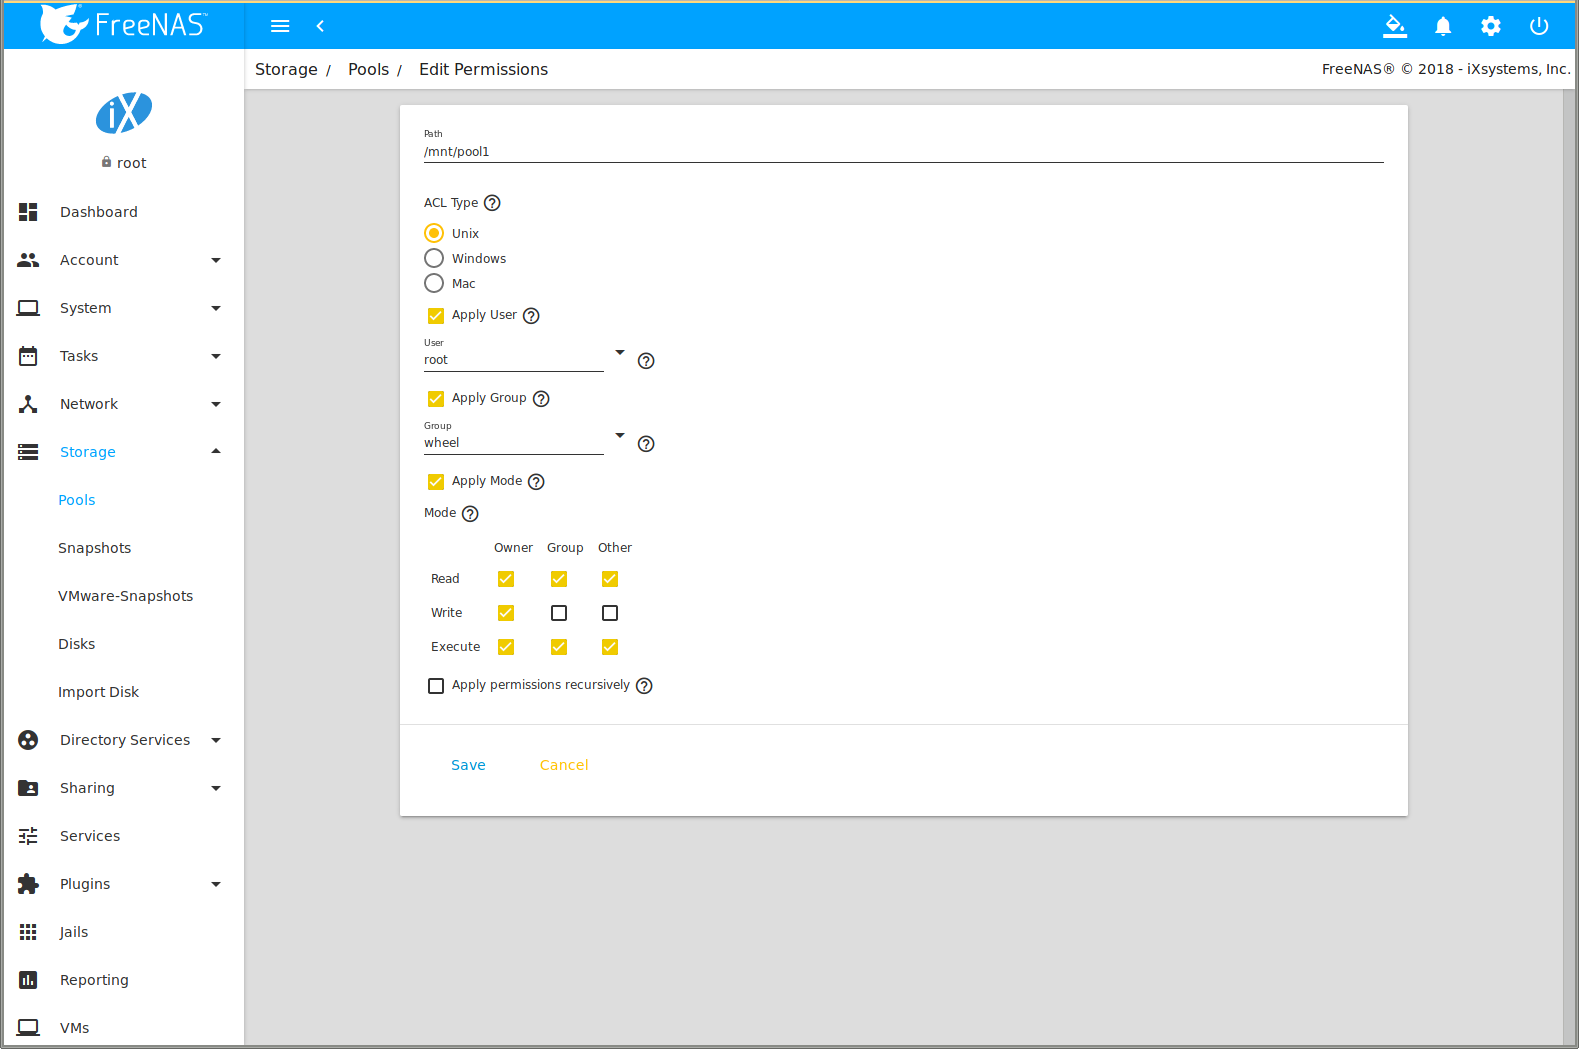
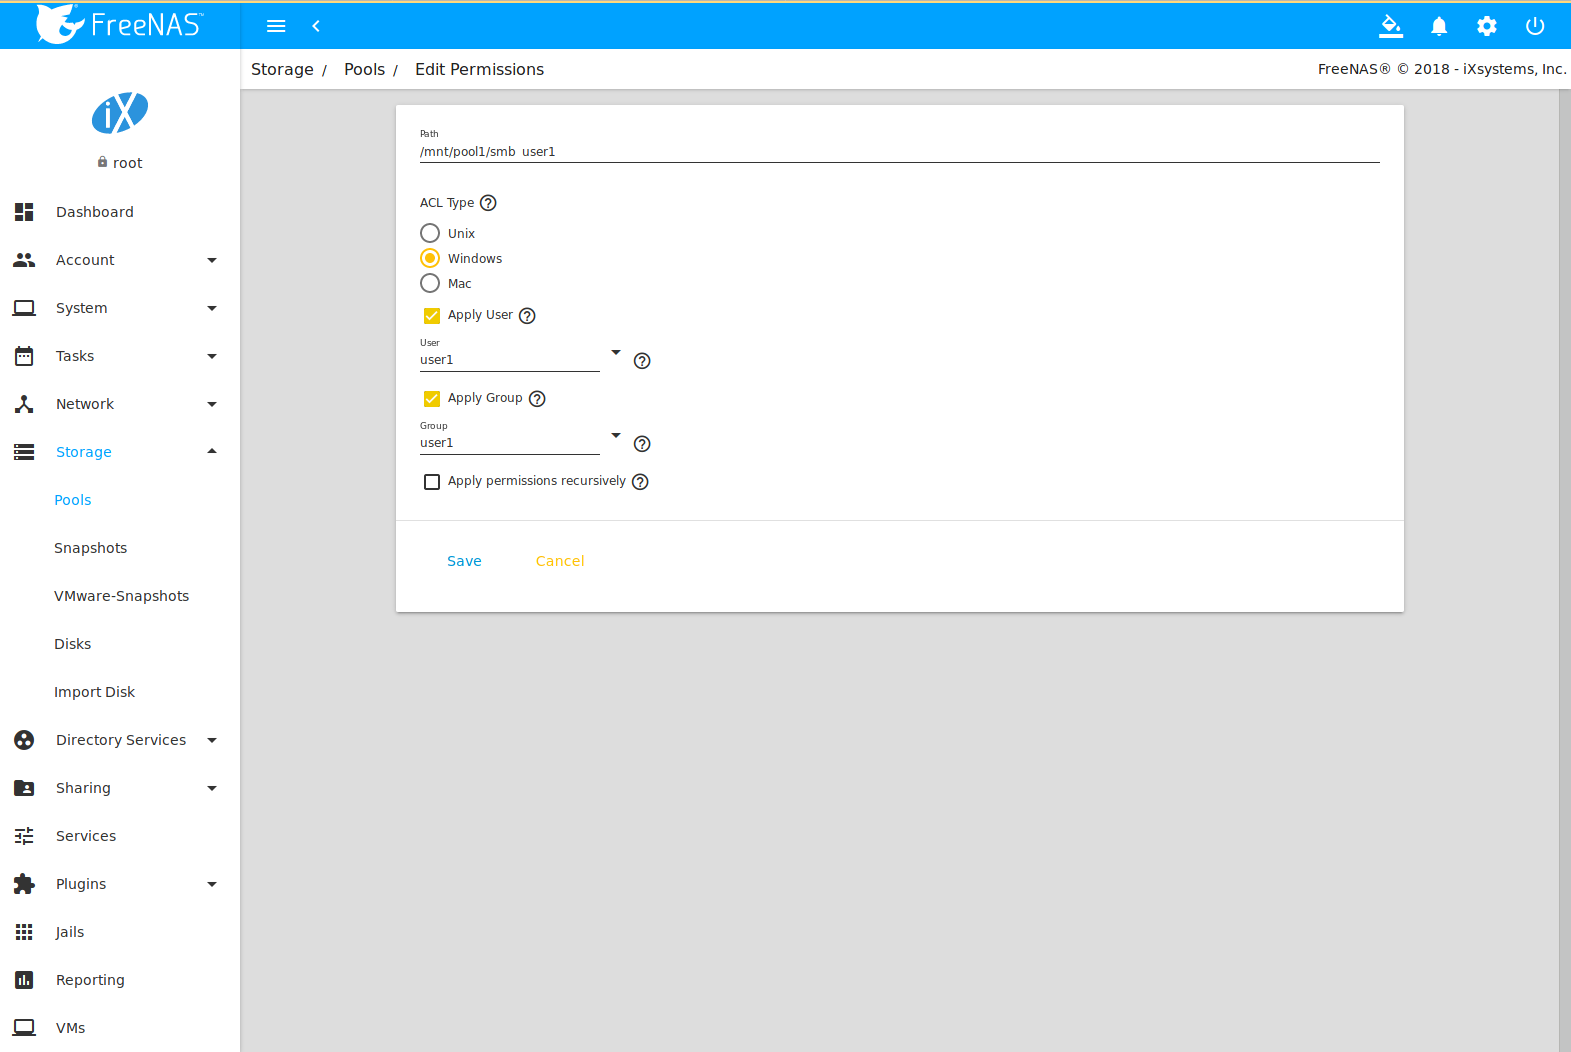
Update remaining images in Sharing

diff --git a/userguide/sharing.rst b/userguide/sharing.rst
@@ -298,8 +298,7 @@ share is displayed in the right frame.
 
 .. figure:: images/sharing-afp-connect-server.png
 
-
-   Connect to Server Dialogue
+   Connect to Server Dialog
 
 
 To disconnect from the pool, click the :guilabel:`eject` button in the
@@ -424,6 +423,7 @@ set for the *user1* account.
 
 .. TODO Take screenshot on macOS client
 
+
 If :guilabel:`Time Machine could not complete the backup. The
 backup disk image could not be created (error 45)` is shown when
 backing up to the %brand% system, a sparsebundle
@@ -493,7 +493,7 @@ the configuration screen is open for the *nfs_share1* share.
 
 .. _nfs_share_settings_fig:
 
-.. figure:: images/nfs2.png
+.. figure:: images/sharing-unix-nfs-edit-example.png
 
    NFS Share Settings
 
@@ -1332,9 +1332,10 @@ To configure an unauthenticated SMB share:
 
 .. _create_unauth_smb_share_fig:
 
-.. figure:: images/cifs7a.png
+.. figure:: images/sharing-windows-smb-guest-example.png
 
    Creating an Unauthenticated SMB Share
+
 
 The new share will appear in
 :menuselection:`Sharing --> Windows (SMB) Shares`.
@@ -1380,8 +1381,8 @@ For more information about dataset creation, refer to :ref:`Adding Datasets`.
 
 After creating the dataset, go to
 :menuselection:`Storage --> Pools` and click the
-|ui-options| button for the desired dataset. Click :guilabel:`Edit
-Permissions` and fill out the information as shown in
+|ui-options| button for the desired dataset. Click
+:guilabel:`Edit Permissions` and fill out the information as shown in
 :numref:`Figure %s <edit_permissions_smb_share_fig>`.
 
 #. **ACL Type:** Select :guilabel:`Windows`.
@@ -1397,11 +1398,13 @@ Permissions` and fill out the information as shown in
    creating a group.
 #. Click :guilabel:`Save`.
 
+
 .. _edit_permissions_smb_share_fig:
 
-.. figure:: images/cifs3a.png
+.. figure:: images/storage-pools-edit-permissions.png
 
    Editing Dataset Permissions for Authenticated SMB Share
+
 
 To create an authenticated SMB share, navigate
 :menuselection:`Sharing --> Windows (SMB) Shares` and click |ui-add|,
@@ -1410,11 +1413,13 @@ as shown in
 :guilabel:`Browse` to the dataset created for the share and enter a
 name for the share. Press :guilabel:`Save` to create the share.
 
+
 .. _create_auth_smb_share_fig:
 
 .. figure:: images/sharing-windows-smb-add.png
 
    Creating an Authenticated SMB Share
+
 
 To configure multiple authenticated shares, repeat for each user. The
 new shares are also added to
@@ -1945,7 +1950,7 @@ buttons.
 
 .. _iscsi_initiator_conf_sample_fig:
 
-.. figure:: images/initiator2a.png
+.. figure:: images/sharing-block-iscsi-initiators-example.png
 
    Sample iSCSI Initiator Configuration
 
@@ -2025,7 +2030,7 @@ Click an authorized access entry to display its :guilabel:`Edit` and
 
 .. _iscsi_view_auth_access_fig:
 
-.. figure:: images/authorized2a.png
+.. figure:: images/sharing-block-iscsi-authorized-access-example.png
 
    Viewing Authorized Accesses
 
@@ -2555,7 +2560,7 @@ the current size of the zvol named *zvol1* is 4GB.
 .. _iscsi_zvol_lun_fig:
 
 #ifdef freenas
-.. figure:: images/grow1.png
+.. figure:: images/storage-pools-zvol-edit.png
 
    Editing an Existing Zvol
 #endif freenas
